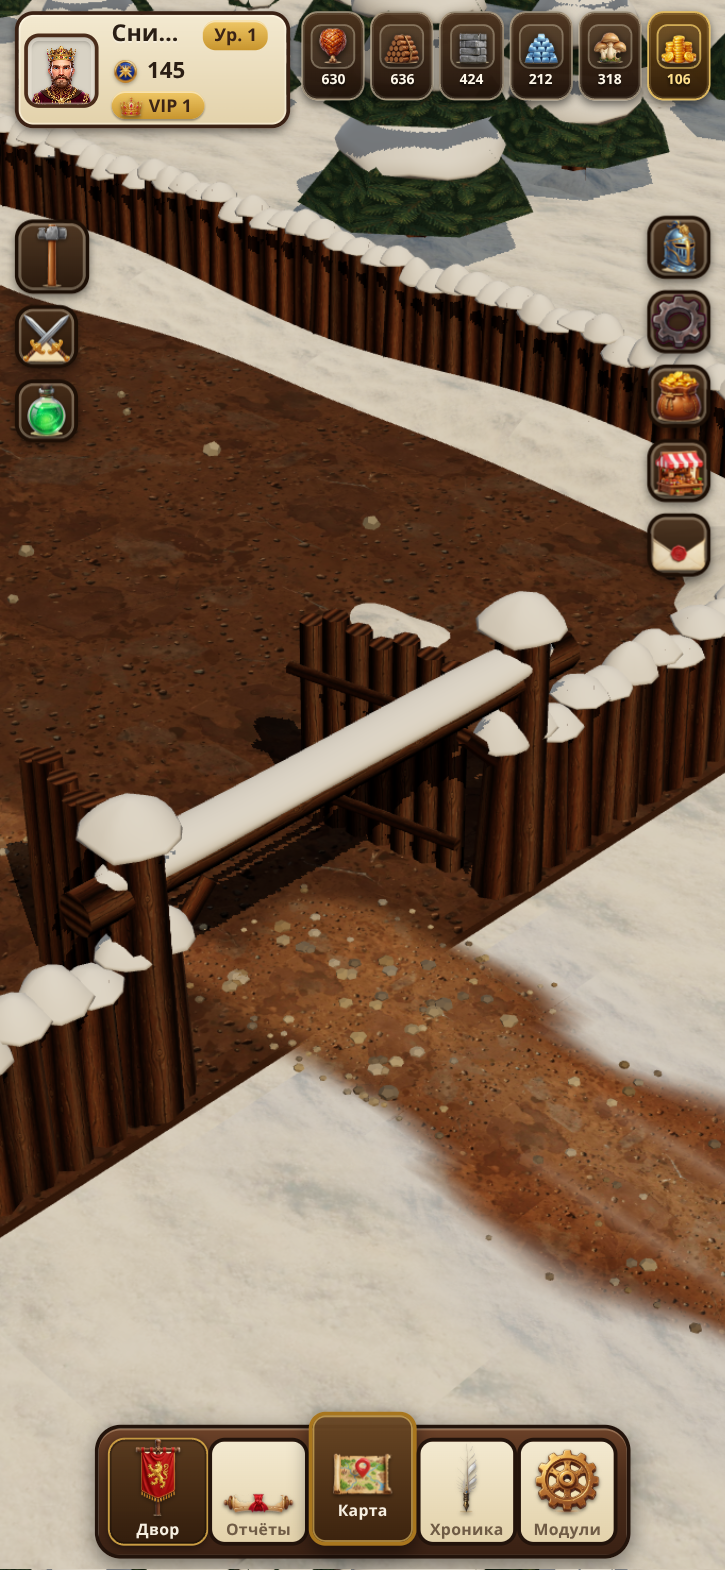
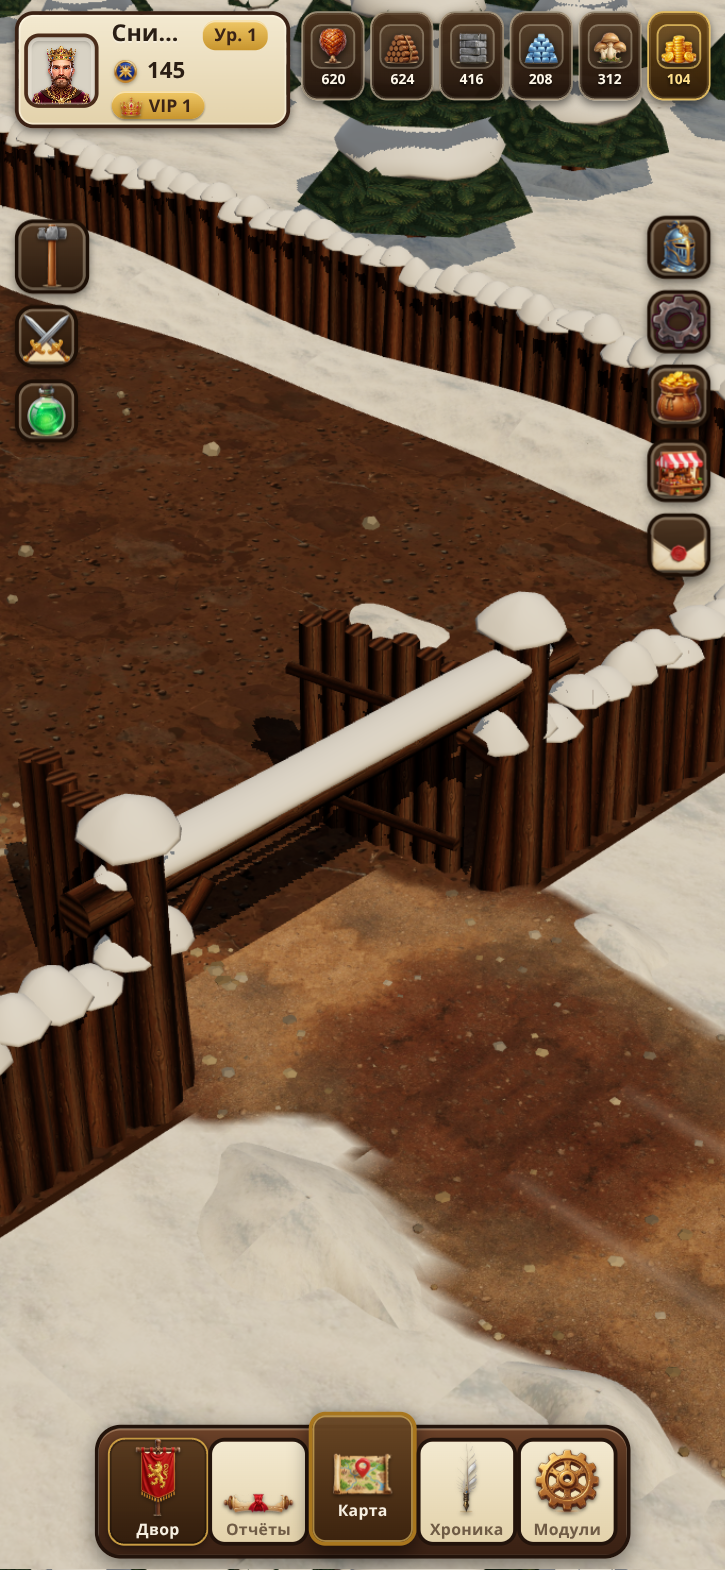
Двор: дорога за воротами с отдельной текстурой, шириной с проём ворот, снег по краям

diff --git a/apps/client/src/court/skin/boneWood/Road.tsx b/apps/client/src/court/skin/boneWood/Road.tsx
@@ -10,6 +10,7 @@
 
 import { useLayoutEffect, useMemo, useRef } from "react";
 import * as THREE from "three";
+import { snowBlob } from "../snow.js";
 import { CELL, GATE_HALF, PLOT, WINTER, cellToWorld, rng, tiled, useSeasonTextures } from "../kit.js";
 import type { RoadProps } from "../types.js";
 
@@ -19,7 +20,7 @@ const SNOW_Y = 0.03;
 const STEP = 0.1;
 const ROAD_END = 58;
 const PATH_R = 0.3; // половина ширины тропы во дворе (≈ 0.55 клетки)
-const ROAD_R = 0.95; // половина ширины дороги за воротами
+const ROAD_R = GATE_HALF; // половина ширины дороги: как проём ворот, чтобы двор и дорога «сливались»
 
 interface Prim {
   x0: number;
@@ -28,6 +29,8 @@ interface Prim {
   z1: number;
   r0: number;
   r1: number;
+  /** Доля радиуса, на которой покрытие спадает от 1 до 0 (меньше — чётче кромка). */
+  soft?: number;
 }
 
 const smooth = (a: number, b: number, x: number) => {
@@ -47,7 +50,7 @@ function cover(p: Prim, x: number, z: number, widen = 1): number {
   const t = len2 > 1e-9 ? THREE.MathUtils.clamp(((x - p.x0) * dx + (z - p.z0) * dz) / len2, 0, 1) : 0;
   const d = Math.hypot(x - (p.x0 + dx * t), z - (p.z0 + dz * t));
   const r = THREE.MathUtils.lerp(p.r0, p.r1, t) * widen * (1 + 0.3 * noise(x, z, 1.5));
-  return THREE.MathUtils.clamp((1 - d / r) / 0.5, 0, 1);
+  return THREE.MathUtils.clamp((1 - d / r) / (p.soft ?? 0.5), 0, 1);
 }
 
 function fieldAt(prims: Prim[], x: number, z: number, widen = 1): number {
@@ -69,19 +72,10 @@ function groundTone(x: number, z: number, out: THREE.Color): THREE.Color {
   return t < 0.5 ? out.copy(BROWN).lerp(SAND, t * 2) : out.copy(SAND).lerp(GREY, (t - 0.5) * 2);
 }
 
-// Дорога за воротами (по концепту path-gate): влажная красновато-коричневая глина, в середине
-// утрамбованная серо-бежевая полоса, по сторонам тёмные пятна. Это отдельный «материал», не как тропа.
-const MUD_DARK = new THREE.Color(1.0, 0.7, 0.5);
-const MUD_MID = new THREE.Color(1.8, 1.4, 1.0);
-const MUD_WARM = new THREE.Color(2.3, 1.9, 1.3);
-const PACKED = new THREE.Color(2.2, 2.5, 2.6);
-
+/** Дорога за воротами: своя текстура (road.jpg), цвет вершин лишь слегка оживляет её вдоль дороги. */
 function roadTone(x: number, z: number, out: THREE.Color): THREE.Color {
-  const n = noise(x * 0.7 + 2, z * 1.6 - 1, 0.9) * 0.5 + 0.5; // пятна вдоль дороги
-  const m = noise(x * 2.2 - 6, z * 3.1 + 4, 0.8) * 0.5 + 0.5; // мелкая пестрота
-  out.copy(MUD_DARK).lerp(MUD_MID, THREE.MathUtils.clamp(n * 1.3, 0, 1)).lerp(MUD_WARM, THREE.MathUtils.clamp((m - 0.55) * 2, 0, 0.7));
-  const centre = smooth(0.62, 0.0, Math.abs(z)) * THREE.MathUtils.clamp(0.55 + n * 0.8, 0, 1);
-  return out.lerp(PACKED, centre * 0.85);
+  const n = noise(x * 0.5 + 2, z * 1.2 - 1, 0.9) * 0.5 + 0.5;
+  return out.setScalar(1.0 + 0.3 * n);
 }
 
 const YARD_SAND = new THREE.Color(1.9, 1.85, 1.55);
@@ -174,8 +168,7 @@ export function Road({ roads, size }: RoadProps) {
       }
     }
     // подъезд: от ворот прямо наружу, одной ширины по всей длине (по решению заказчика не сужается)
-    const road: Prim[] = [{ x0: PLOT - 0.2, z0: 0, x1: ROAD_END, z1: 0, r0: ROAD_R, r1: ROAD_R }];
-    const all = [...path, ...road.filter((p) => p.x0 < PLOT + 1.2)];
+    const road: Prim[] = [{ x0: PLOT - 0.2, z0: 0, x1: ROAD_END, z1: 0, r0: ROAD_R, r1: ROAD_R, soft: 0.22 }];
 
     const gridMin = (v: number) => Math.floor(v / STEP) * STEP;
     const xs = [PLOT + 1.2, ...cells.map((c) => c.cx)];
@@ -185,64 +178,61 @@ export function Road({ roads, size }: RoadProps) {
       z: [gridMin(Math.min(...zs) - 0.7), gridMin(Math.max(...zs) + 0.7) + STEP] as [number, number],
     };
 
-    const toneOut = new THREE.Color();
     const roadCol = new THREE.Color();
     const soil = (x: number, z: number, f: number, out: THREE.Color) => {
-      const inside = 1 - smooth(PLOT, PLOT + 2.2, x);
       // тропа во дворе: бледный песок/грунт, мягкие пятна светлее и темнее
       const tone = noise(x * 0.9 + 4, z * 0.9 - 3, 0.7) * 0.5 + 0.5;
       const patch = noise(x * 2.4 + 9, z * 2.4 - 5, 0.8) * 0.5 + 0.5;
       out.copy(YARD_BROWN).lerp(YARD_SAND, THREE.MathUtils.clamp(tone * 1.4, 0, 1)).multiplyScalar(0.82 + 0.36 * patch);
-      // дорога за воротами: свой цвет
-      roadTone(x, z, roadCol);
-      out.lerp(roadCol, 1 - inside);
       out.multiplyScalar(0.55 + 0.45 * smooth(0, 1, f)); // у кромки темнее: грунт «врастает» в землю
       return smooth(0, 0.6, f);
     };
+    const roadSoil = (x: number, z: number, f: number, out: THREE.Color) => {
+      roadTone(x, z, roadCol);
+      out.copy(roadCol).multiplyScalar(0.75 + 0.25 * smooth(0, 1, f));
+      return smooth(0, 0.3, f);
+    };
 
-    const yard = buildField({ prims: all, ...yardBounds, stepX: STEP, stepZ: STEP, y: (x, f) => baseY(x) - 0.012 * (1 - f), color: soil });
-    const outer = buildField({
-      prims: road,
-      x: [PLOT + 1.2, ROAD_END],
-      z: [-2.2, 2.2 + 1e-6],
-      stepX: 0.3,
-      stepZ: STEP,
-      y: (x, f) => baseY(x) - 0.004 * (1 - f),
-      color: soil,
-    });
-    // притоптанный снег по обочинам: шире дороги, серовато-голубой, очень мягкий
-    const shoulder = buildField({
-      prims: road,
-      x: [PLOT + 0.4, ROAD_END],
-      z: [-3.6, 3.6 + 1e-6],
-      stepX: 0.4,
-      stepZ: 0.15,
-      widen: 1.85,
-      y: () => 0.014,
-      color: (x, z, f, out) => {
-        out.setRGB(0.8, 0.82, 0.87).offsetHSL(0, 0, noise(x * 0.5, z * 1.5) * 0.02);
-        return 0.85 * smooth(0, 0.7, f);
-      },
-    });
+    const yard = buildField({ prims: path, ...yardBounds, stepX: STEP, stepZ: STEP, y: (x, f) => baseY(x) - 0.012 * (1 - f), color: soil });
+    // дорога: ближний участок у ворот — мелкая сетка, дальше — крупнее
+    const roadY = (x: number, f: number) => baseY(x) + 0.004 - 0.006 * (1 - f);
+    const roadNear = buildField({ prims: road, x: [PLOT - 0.7, PLOT + 1.2], z: [-2.4, 2.4 + 1e-6], stepX: STEP, stepZ: STEP, y: roadY, color: roadSoil });
+    const roadFar = buildField({ prims: road, x: [PLOT + 1.2, ROAD_END], z: [-2.4, 2.4 + 1e-6], stepX: 0.3, stepZ: STEP, y: roadY, color: roadSoil });
     // колея: две тонкие тёмные полосы вдоль дороги, затухают у ворот
     const rut = (x: number, z: number) => {
       const mask = smooth(PLOT + 1.0, PLOT + 3.0, x) * smooth(0.4, 0.9, fieldAt(road, x, z));
-      const a = 1 - Math.min(Math.abs(z - 0.36), Math.abs(z + 0.36)) / 0.1;
+      const a = 1 - Math.min(Math.abs(z - 0.55), Math.abs(z + 0.55)) / 0.1;
       return Math.max(a, 0) * mask * (0.7 + 0.3 * noise(x * 0.8, 0));
     };
     const ruts = buildField({
       prims: road,
       x: [PLOT + 1.0, ROAD_END],
-      z: [-0.6, 0.6 + 1e-6],
+      z: [-0.8, 0.8 + 1e-6],
       stepX: 0.4,
       stepZ: 0.03,
       value: rut,
-      y: () => baseY(PLOT + 6) + 0.003,
+      y: () => baseY(PLOT + 6) + 0.009,
       color: (_x, _z, f, out) => {
         out.setRGB(0.3, 0.19, 0.13);
-        return 0.7 * f;
+        return 0.55 * f;
       },
     });
+
+    // снег по краям дороги: низкие неровные валики вдоль кромки (не изгиб дороги, а лёгкая обвалка)
+    const rs = rng(777);
+    const lumps: { geom: THREE.BufferGeometry; x: number; z: number; rot: number; tone: string }[] = [];
+    for (let x = PLOT + 0.9; x < 34; x += 1.2 + rs() * 1.9) {
+      for (const side of [-1, 1]) {
+        if (rs() < 0.25) continue;
+        lumps.push({
+          geom: snowBlob(0.55 + rs() * 0.6, 0.13 + rs() * 0.1, 300 + lumps.length * 5, 0.5),
+          x: x + rs() * 0.8,
+          z: side * ROAD_R * (0.9 + rs() * 0.3),
+          rot: (rs() - 0.5) * 0.5,
+          tone: rs() < 0.5 ? "#f6f2e8" : "#eeeae0",
+        });
+      }
+    }
 
     // мелкая россыпь: только крошка и мелкая галька, никаких крупных камней
     const r = rng(4242);
@@ -260,12 +250,11 @@ export function Road({ roads, size }: RoadProps) {
       }
     };
     const area = Math.max(cells.length, 1);
-    scatter(area * 16, yardBounds.x[0], yardBounds.x[1], yardBounds.z[0], yardBounds.z[1], all, 0.55, 1, 0.03, 0.07);
-    scatter(area * 10, yardBounds.x[0], yardBounds.x[1], yardBounds.z[0], yardBounds.z[1], all, 0.08, 0.5, 0.02, 0.04);
-    scatter(260, PLOT + 1.2, 36, -1.1, 1.1, road, 0.5, 1, 0.025, 0.06);
-    scatter(120, PLOT + 1.2, 36, -1.3, 1.3, road, 0.05, 0.5, 0.02, 0.04);
-    void toneOut;
-    return { yard, outer, shoulder, ruts, pebbles };
+    scatter(area * 16, yardBounds.x[0], yardBounds.x[1], yardBounds.z[0], yardBounds.z[1], path, 0.55, 1, 0.03, 0.07);
+    scatter(area * 10, yardBounds.x[0], yardBounds.x[1], yardBounds.z[0], yardBounds.z[1], path, 0.08, 0.5, 0.02, 0.04);
+    scatter(320, PLOT - 0.1, 36, -1.45, 1.45, road, 0.5, 1, 0.025, 0.06);
+    scatter(140, PLOT - 0.1, 36, -1.7, 1.7, road, 0.05, 0.5, 0.02, 0.04);
+    return { yard, roadNear, roadFar, ruts, lumps, pebbles };
   }, [roads, size]);
 
   const peb = useRef<THREE.InstancedMesh>(null!);
@@ -291,22 +280,28 @@ export function Road({ roads, size }: RoadProps) {
   ) : (
     <meshStandardMaterial key="plain" vertexColors transparent color="#a98a5e" roughness={1} polygonOffset polygonOffsetFactor={-1} polygonOffsetUnits={-1} />
   );
-  const shoulderMat = tex ? (
-    <meshStandardMaterial key="tex" vertexColors transparent depthWrite={false} map={tiled(tex.snow, 0.34)} roughness={1} polygonOffset polygonOffsetFactor={-1} polygonOffsetUnits={-1} />
+  const roadMat = tex ? (
+    <meshStandardMaterial key="tex" vertexColors transparent map={tiled(tex.road, 0.27)} bumpMap={tiled(tex.road, 0.27)} bumpScale={0.06} roughness={1} polygonOffset polygonOffsetFactor={-2} polygonOffsetUnits={-2} />
   ) : (
-    <meshStandardMaterial key="plain" vertexColors transparent depthWrite={false} roughness={1} />
+    <meshStandardMaterial key="plain" vertexColors transparent color="#8a5f3e" roughness={1} polygonOffset polygonOffsetFactor={-2} polygonOffsetUnits={-2} />
   );
+  const lumpMat = (tone: string) =>
+    tex ? (
+      <meshStandardMaterial key="tex" color={tone} map={tiled(tex.snow, 0.34)} bumpMap={tiled(tex.snow, 0.34)} bumpScale={0.03} roughness={0.96} />
+    ) : (
+      <meshStandardMaterial key="plain" color={tone} roughness={0.96} />
+    );
 
   return (
     <group>
-      {data.shoulder ? (
-        <mesh geometry={data.shoulder} receiveShadow renderOrder={1}>
-          {shoulderMat}
+      {data.roadNear ? (
+        <mesh geometry={data.roadNear} receiveShadow renderOrder={3}>
+          {roadMat}
         </mesh>
       ) : null}
-      {data.outer ? (
-        <mesh geometry={data.outer} receiveShadow renderOrder={2}>
-          {soilMat}
+      {data.roadFar ? (
+        <mesh geometry={data.roadFar} receiveShadow renderOrder={3}>
+          {roadMat}
         </mesh>
       ) : null}
       {data.yard ? (
@@ -315,10 +310,15 @@ export function Road({ roads, size }: RoadProps) {
         </mesh>
       ) : null}
       {data.ruts ? (
-        <mesh geometry={data.ruts} renderOrder={3}>
+        <mesh geometry={data.ruts} renderOrder={4}>
           <meshBasicMaterial vertexColors transparent depthWrite={false} polygonOffset polygonOffsetFactor={-3} polygonOffsetUnits={-3} />
         </mesh>
       ) : null}
+      {data.lumps.map((l, i) => (
+        <mesh key={i} geometry={l.geom} position={[l.x, 0.06, l.z]} rotation-y={l.rot} castShadow receiveShadow>
+          {lumpMat(l.tone)}
+        </mesh>
+      ))}
       <instancedMesh key={data.pebbles.length} ref={peb} args={[undefined, undefined, data.pebbles.length]} castShadow receiveShadow>
         <dodecahedronGeometry args={[1, 0]} />
         <meshStandardMaterial roughness={1} flatShading />

diff --git a/apps/client/src/court/skin/kit.tsx b/apps/client/src/court/skin/kit.tsx
@@ -163,6 +163,7 @@ export const WINTER = "winter";
 
 export interface SeasonTextures {
   mud: THREE.Texture;
+  road: THREE.Texture;
   snow: THREE.Texture;
   bark: THREE.Texture;
   needles: THREE.Texture;
@@ -182,8 +183,8 @@ function loadSeason(season: string): Promise<SeasonTextures | null> {
       tex.anisotropy = 8;
       return tex;
     };
-    hit = Promise.all([one("ground-mud"), one("snow"), one("log-bark"), one("fir-needles")])
-      .then(([mud, snow, bark, needles]) => ({ mud, snow, bark, needles }))
+    hit = Promise.all([one("ground-mud"), one("road"), one("snow"), one("log-bark"), one("fir-needles")])
+      .then(([mud, road, snow, bark, needles]) => ({ mud, road, snow, bark, needles }))
       .catch(() => null);
     seasonCache.set(season, hit);
   }

diff --git a/docs/game/ui/concepts/phase-04-road/README.md b/docs/game/ui/concepts/phase-04-road/README.md
@@ -1,0 +1,8 @@
+# Этап 4 — дорога за воротами: отдельная текстура
+
+Замечание заказчика (01.10.2026): дорога и тропа во дворе — разные элементы, у них разная текстура; дорога не должна резко отличаться по ширине от двора и должна вернуть «разноцветие» концепта; вместо изгиба — лёгкая обвалка снега по краям.
+
+- `road-texture-sample.jpg` — выбранный образец (2048², песчаные, красно-коричневые и серые пятна, мелкая галька, трещины).
+- Игровая копия: `apps/client/public/textures/winter/road.jpg` (1536², бесшовная — собрана зеркалированием образца).
+- Дорога: прямая, шириной с проём ворот (`ROAD_R = GATE_HALF`), одной ширины по всей длине, кромка почти чёткая; по краям низкие снежные валики (`snowBlob`), колея слабая.
+- Тропа во дворе: `ground-mud`, светлый песчаный тон, узкая.
